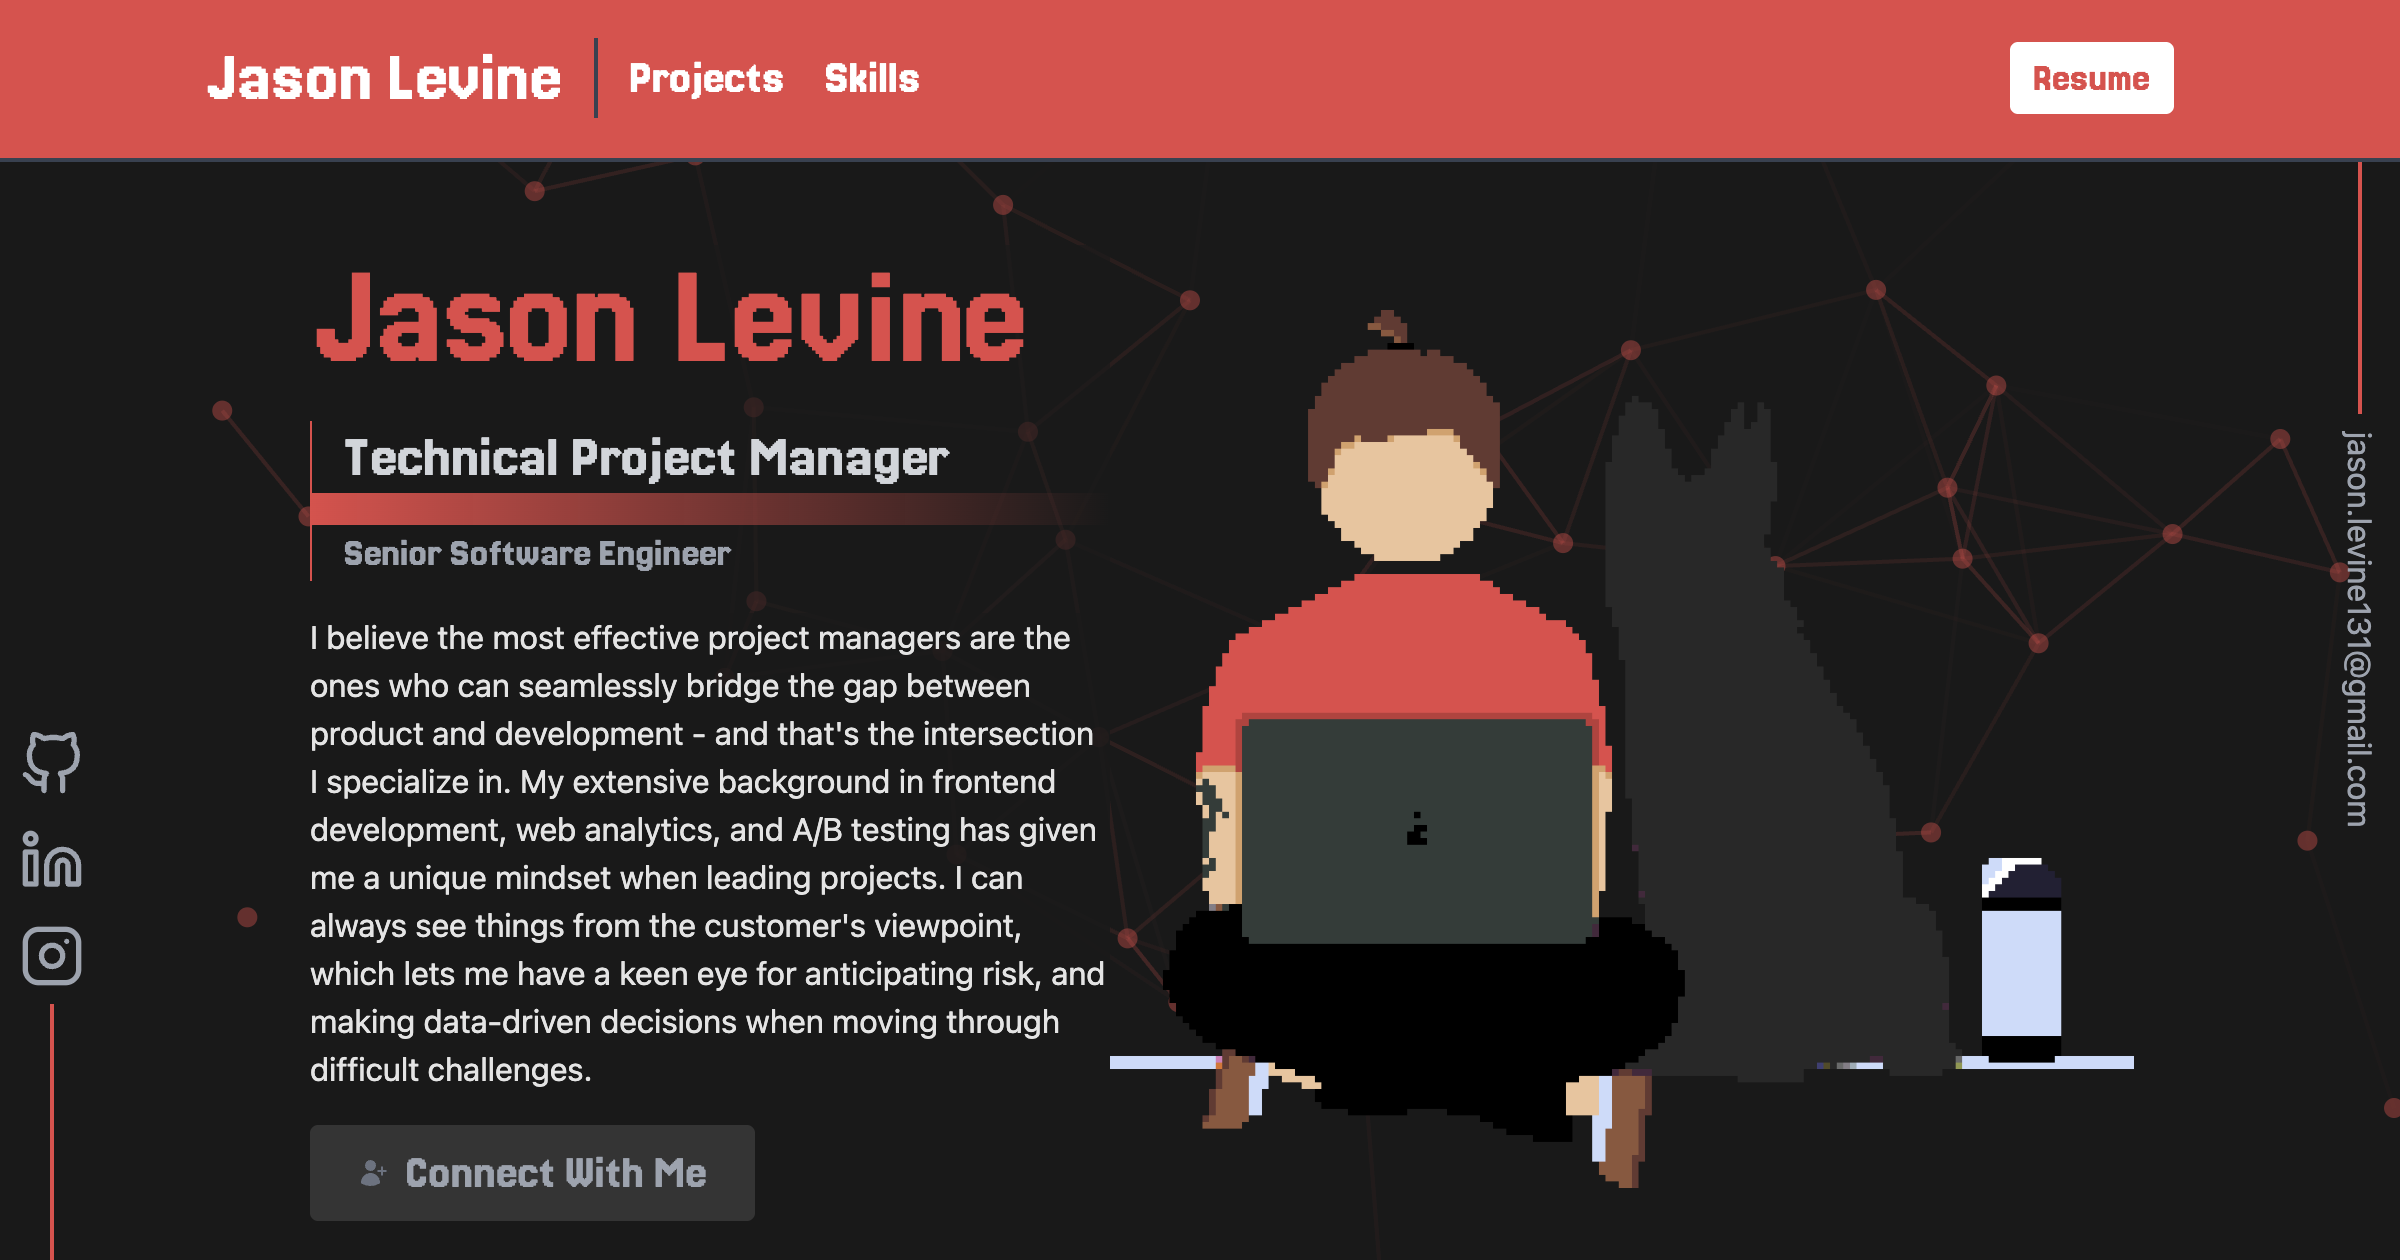
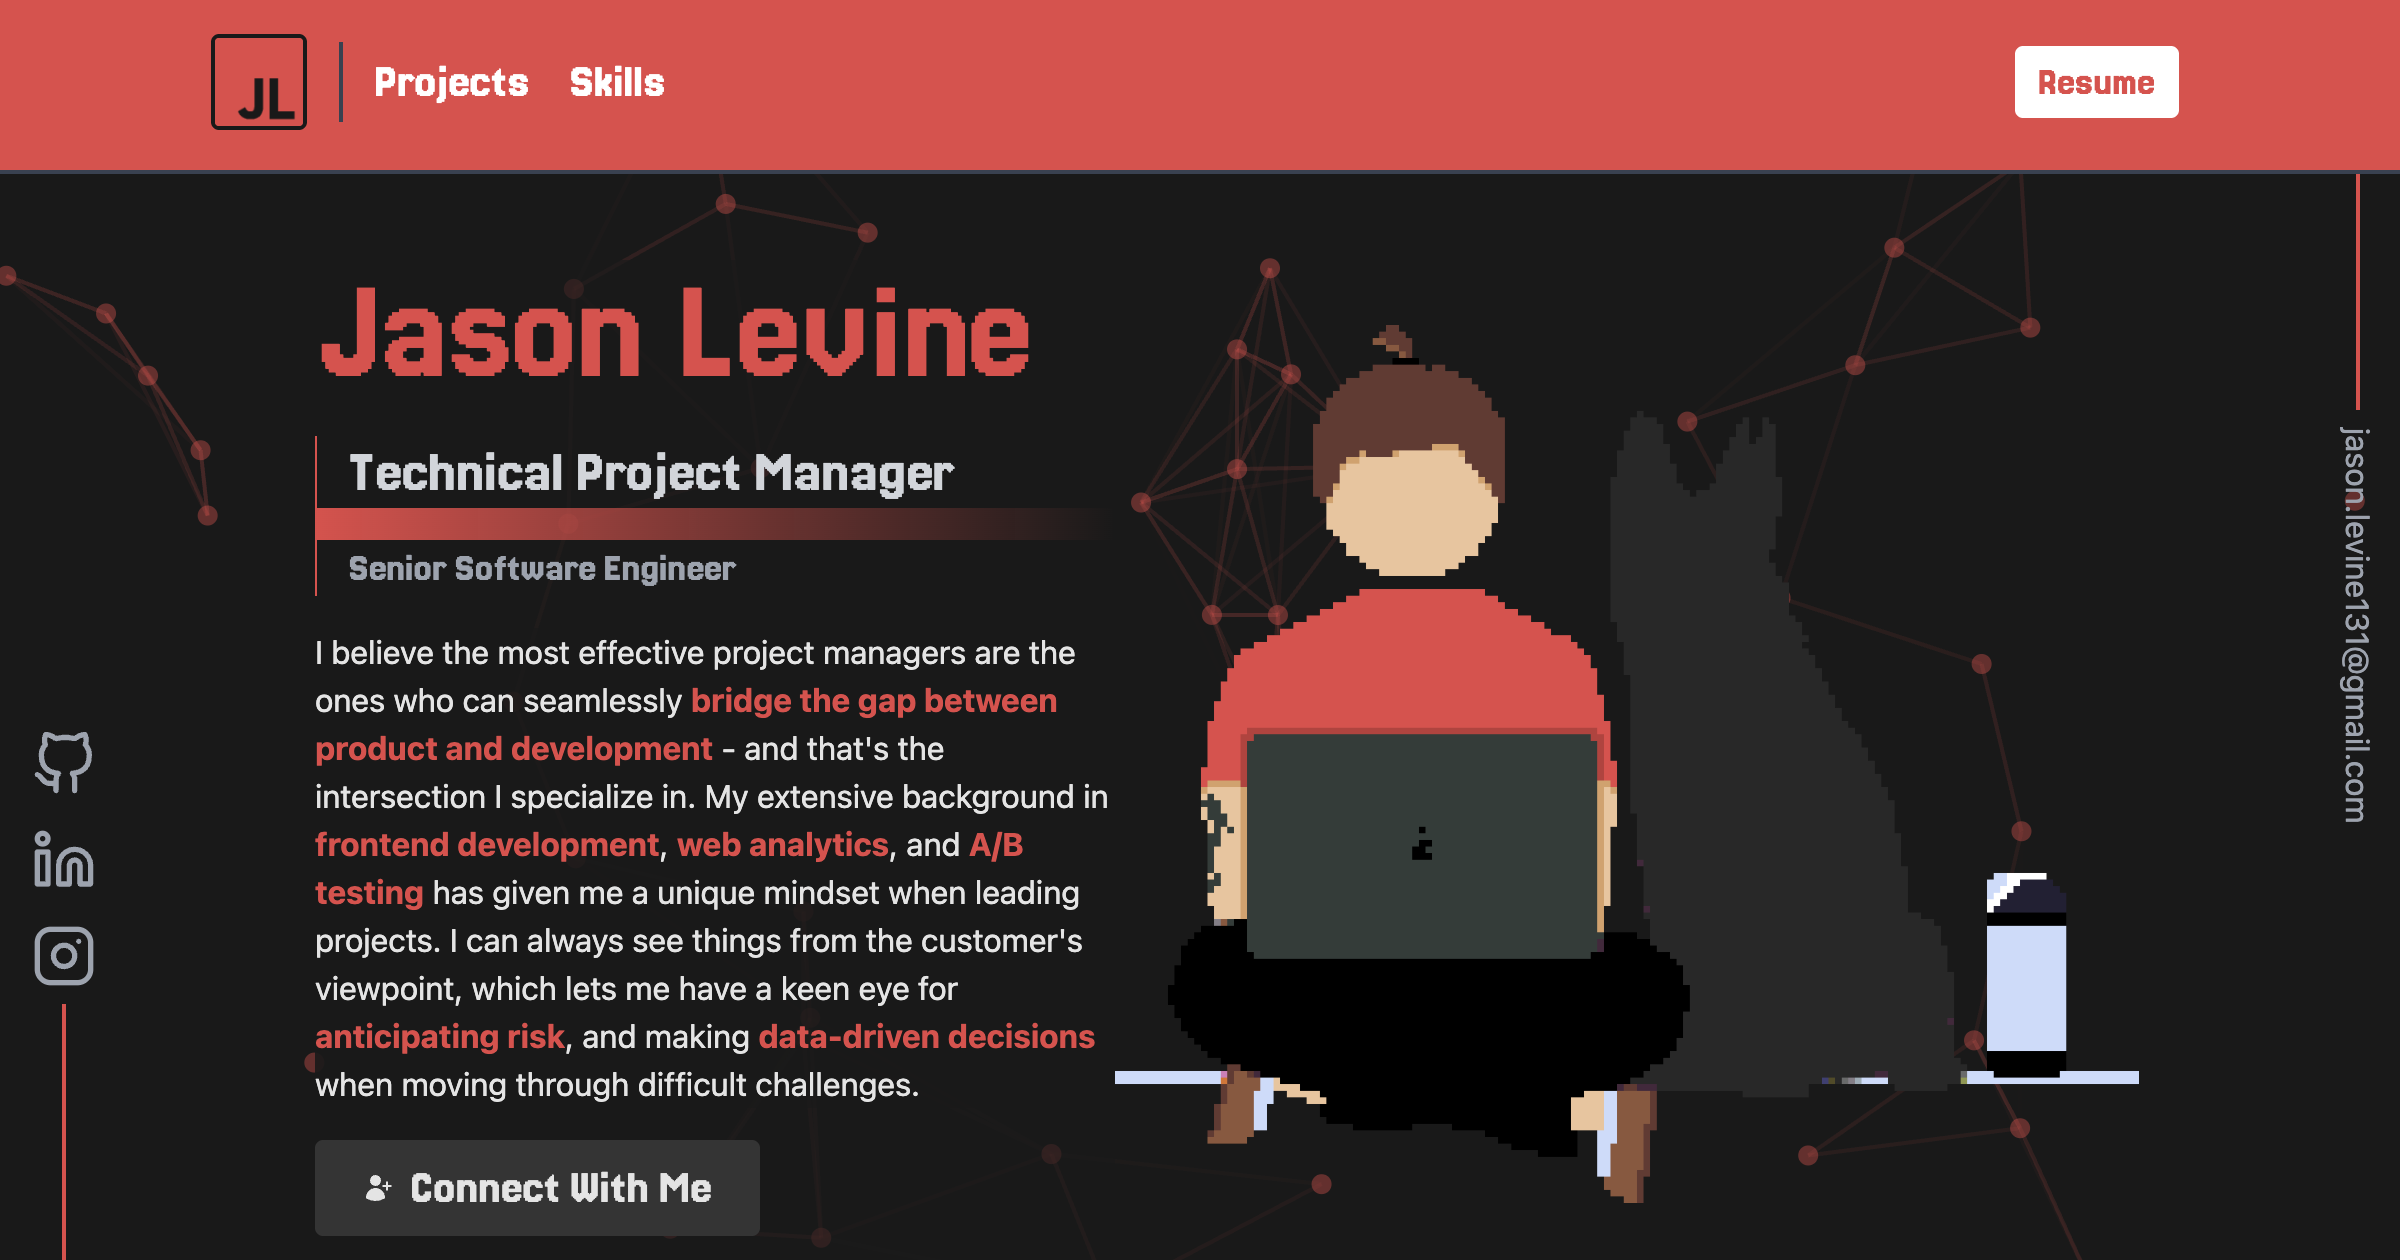
Red text in about section

diff --git a/src/components/About.jsx b/src/components/About.jsx
@@ -18,10 +18,10 @@ function About() {
               <span className="h-4 w-full bg-gradient-to-r from-stronghold-imperial-red to-transparent"></span>
               <span className="jersey md:border-l md:pl-4  border-stronghold-imperial-red mb-4 sm:text-xl text-l"> Senior Software Engineer</span>              
 
-              <span className="bg-stronghold-eerie-black bg-opacity-70 text-stronghold-platinum mb-4">I believe the most effective project managers are the ones who can seamlessly bridge the gap between product and development - and that's the intersection I specialize in.
-                My extensive background in frontend development, web analytics, and A/B testing
-                has given me a unique mindset when leading projects.  I can always see things from the customer's viewpoint, which lets me have a keen eye for 
-                anticipating risk, and making data-driven decisions when moving through difficult challenges.
+              <span className="bg-stronghold-eerie-black bg-opacity-70 text-stronghold-platinum mb-4">I believe the most effective project managers are the ones who can seamlessly <span className="font-bold text-stronghold-imperial-red">bridge the gap between product and development</span> - and that's the intersection I specialize in.
+                My extensive background in <span className="font-bold text-stronghold-imperial-red">frontend development</span>, <span className="font-bold text-stronghold-imperial-red">web analytics</span>, and <span className="font-bold text-stronghold-imperial-red">A/B testing</span> has given me a unique 
+                mindset when leading projects.  I can always see things from the customer's viewpoint, which lets me have a keen eye
+                for <span className="font-bold text-stronghold-imperial-red">anticipating risk</span>, and making <span className="font-bold text-stronghold-imperial-red">data-driven decisions</span> when moving through difficult challenges.
               </span>
               <div className="flex flex-col xl:flex-row justify-center mb-4">
                 <div className="flex justify-center">
